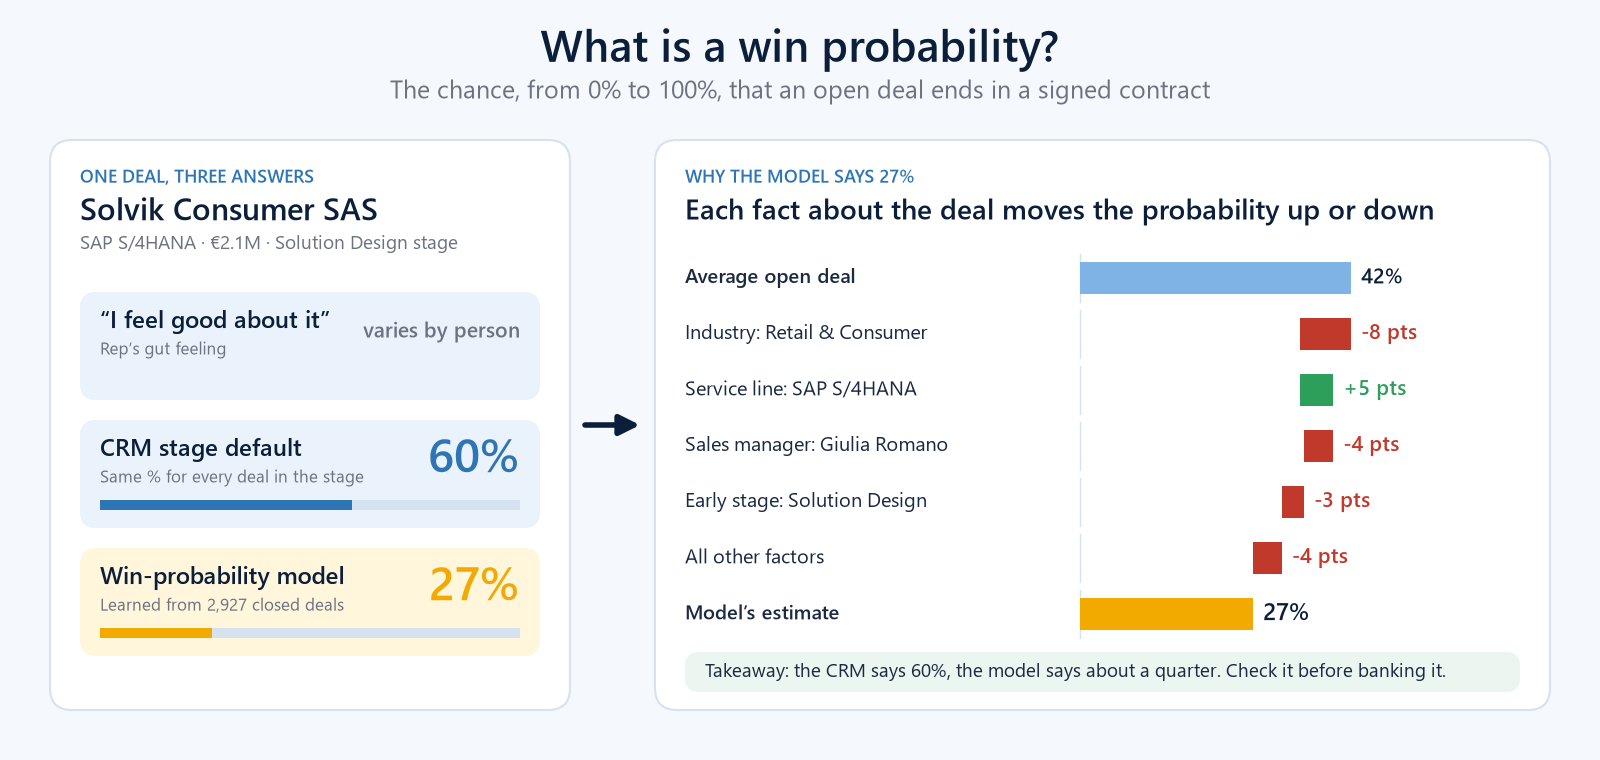
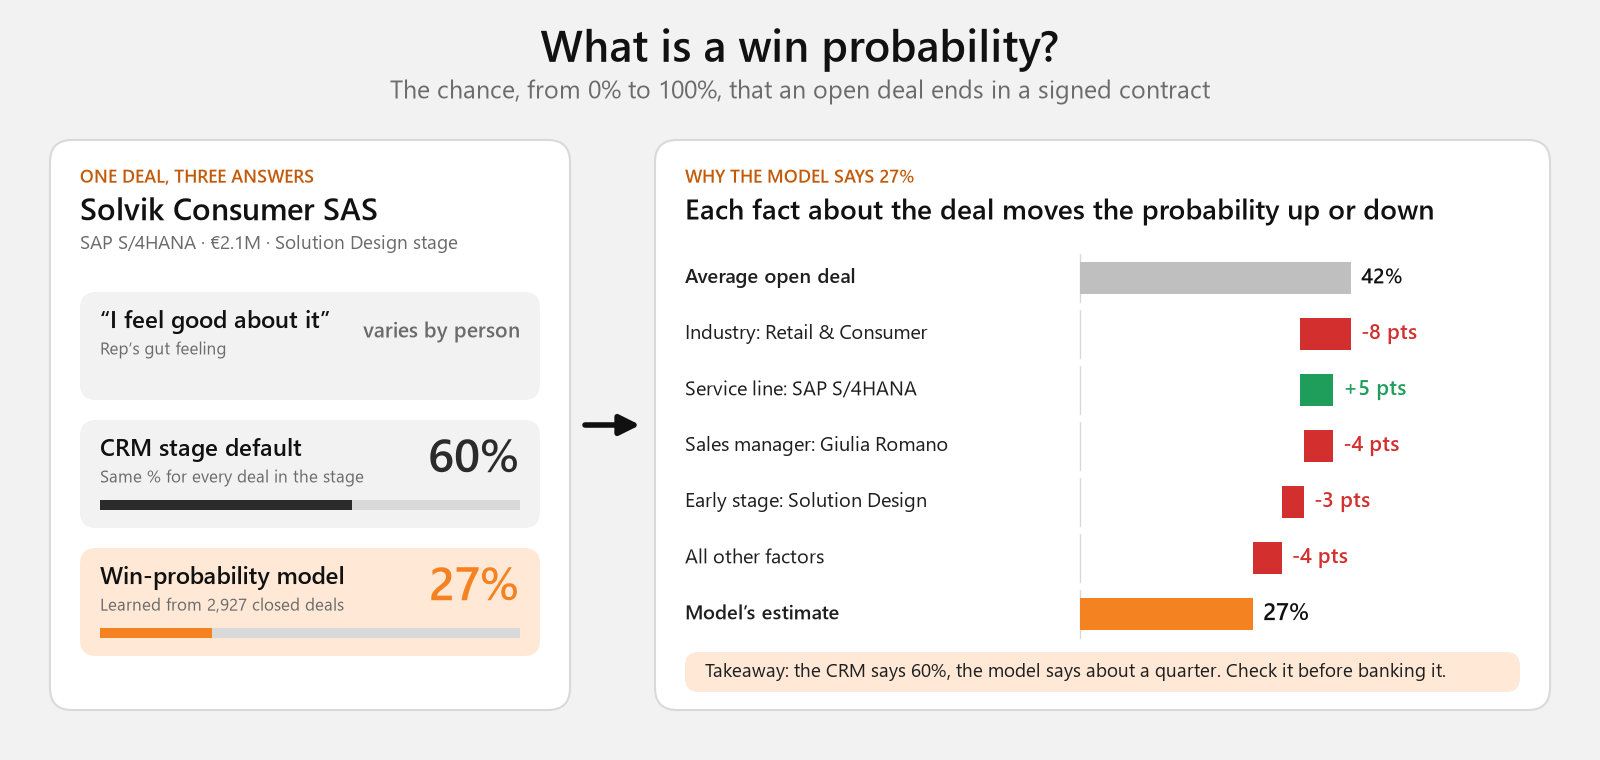
Recolour README images to the dashboard palette (orange, black, grey)

diff --git a/scripts/make_readme_images.py b/scripts/make_readme_images.py
@@ -4,6 +4,7 @@ Numbers come from the warehouse and ml/outputs/metrics.json, so the pictures can
 Run after the pipeline:  python scripts/make_readme_images.py   ->  images/readme/*.png
 """
 import json
+import re
 import textwrap
 from pathlib import Path
 
@@ -21,8 +22,10 @@ OUT.mkdir(parents=True, exist_ok=True)
 
 FONT = "Segoe UI"
 BOLD = "Segoe UI Semibold"
-NAVY, INK, BLUE, MID, SKY, PALE = "#0B1F3A", "#1B2A41", "#1F4E79", "#2E75B6", "#7FB2E5", "#EAF2FB"
-AMBER, GREEN, RED, GREY, WHITE = "#F2A900", "#2E9E5B", "#C0392B", "#6B7280", "#FFFFFF"
+# Same palette as the Power BI theme: black, orange, grey. Red and green are kept for bad / good only.
+NAVY, INK, BLUE, MID, SKY, PALE = "#111111", "#1F1F1F", "#2B2B2B", "#F58220", "#FFB066", "#F2F2F2"
+AMBER, GREEN, RED, GREY, WHITE = "#F58220", "#1E9E5A", "#D32F2F", "#6B6B6B", "#FFFFFF"
+DORANGE, LINE, TINT, TINT_LINE = "#C25A0A", "#D9D9D9", "#FFE9D6", "#F5B97A"   # small orange text, hairlines, light orange fills
 
 # ---- numbers ----------------------------------------------------------------------------------------------------------
 con = duckdb.connect(str(ROOT / "warehouse" / "nexora.duckdb"), read_only=True)
@@ -35,6 +38,8 @@ N = {
     "risk_eur": con.execute("select sum(amount_eur) from pipeline_deals where is_at_risk").fetchone()[0] / 1e6,
     "flag_n": con.execute("select count(*) from ml.model_scores where model_vs_governed_pts <= -25").fetchone()[0],
     "flag_eur": con.execute("select sum(amount_eur) from ml.model_scores where model_vs_governed_pts <= -25").fetchone()[0] / 1e6,
+    "measures": len(re.findall(r"^\tmeasure ", (ROOT / "powerbi" / "PowerBI_Workbook.SemanticModel" / "definition" / "tables"
+                                                 / "_Measures.tmdl").read_text(encoding="utf-8"), re.M)),
     "scored": m["scored"],
     "train_deals": m["train_deals"],
     "test_deals": m["test_deals"],
@@ -67,7 +72,7 @@ def box(ax, x, y, w, h, fc, ec="none", r=18, lw=0, alpha=1.0, z=1):
     return p
 
 
-def arrow(ax, x1, y1, x2, y2, color=MID, lw=3, ms=22, z=3):
+def arrow(ax, x1, y1, x2, y2, color="#595959", lw=3, ms=22, z=3):
     ax.add_patch(FancyArrowPatch((x1, y1), (x2, y2), arrowstyle="-|>", mutation_scale=ms, color=color, lw=lw, zorder=z,
                                  shrinkA=0, shrinkB=0))
 
@@ -85,7 +90,7 @@ def hero():
     W, H = 1600, 440
     fig, ax = canvas(W, H, NAVY)
     grad = np.linspace(0, 1, 256).reshape(1, -1)
-    ax.imshow(grad, extent=[0, W, H, 0], cmap=matplotlib.colors.LinearSegmentedColormap.from_list("g", [NAVY, "#133A63", "#1F4E79"]),
+    ax.imshow(grad, extent=[0, W, H, 0], cmap=matplotlib.colors.LinearSegmentedColormap.from_list("g", [NAVY, "#1B1B1B", "#2B2B2B"]),
               aspect="auto", zorder=0)
     ax.set_xlim(0, W); ax.set_ylim(H, 0)
     # faint grid
@@ -98,7 +103,7 @@ def hero():
     t(ax, 70, 168, "Sales Pipeline", 54, WHITE, "bold")
     t(ax, 70, 232, "Intelligence", 54, WHITE, "bold")
     ax.add_patch(Rectangle((70, 268), 90, 5, fc=AMBER, zorder=3))
-    t(ax, 70, 312, "Know which deals will close, and why.", 24, "#DCE9F7")
+    t(ax, 70, 312, "Know which deals will close, and why.", 24, "#E6E6E6")
     t(ax, 70, 352, "One trusted view of the pipeline. A win probability you can explain.", 16, SKY)
     # right: funnel of deals + probability ring
     stages = ["Discovery", "Solution\nDesign", "Proposal", "Negotiation", "Won"]
@@ -118,7 +123,7 @@ def hero():
     ax.add_patch(Wedge((cx, cy), R, 0, 360, width=20, fc=WHITE, alpha=0.10, zorder=2))
     ax.add_patch(Wedge((cx, cy), R, -90, -90 + 360 * 0.84, width=20, fc=AMBER, zorder=3))
     t(ax, cx, cy - 8, "84%", 46, WHITE, "bold", ha="center")
-    t(ax, cx, cy + 38, "chance to win", 14, "#DCE9F7", ha="center")
+    t(ax, cx, cy + 38, "chance to win", 14, "#E6E6E6", ha="center")
     box(ax, cx - 150, 350, 300, 44, WHITE, r=22, alpha=0.12, z=2)
     t(ax, cx, 372, "…because late stage, a strong service line", 12.5, WHITE, ha="center")
     save(fig, "hero_banner.png")
@@ -129,14 +134,14 @@ def hero():
 # ======================================================================================================================
 def workflow():
     W, H = 1600, 700
-    fig, ax = canvas(W, H, "#F5F8FC")
+    fig, ax = canvas(W, H, "#F2F2F2")
     t(ax, W / 2, 52, "From messy CRM data to decisions leaders can trust", 30, NAVY, "bold", ha="center")
     t(ax, W / 2, 92, "What was built, in five steps", 16, GREY, ha="center")
     steps = [
-        ("1", "DATA SOURCES", "⚑", "Capture", ["24 monthly CRM extracts", "2 system versions after a migration", "8 currencies"], GREY),
+        ("1", "DATA SOURCES", "⚑", "Capture", ["24 monthly CRM extracts", "2 system versions after a migration", "8 currencies"], "#6B6B6B"),
         ("2", "TRUST LAYER", "✔", "Cleanse & reconcile", [f"{N['raw_rows']:,} raw rows become {N['deals']:,} real deals", "Duplicates and test data removed", f"{N['checks']} of {N['checks']} checks pass"], BLUE),
         ("3", "BUSINESS RULES", "⚖", "Govern", ["One definition per metric", "Stage odds, FX and “stuck” rules", "Written down, versioned, tested"], BLUE),
-        ("4", "PREDICTIVE SCIENCE", "⚙", "Learn from history", [f"Learns from {N['train_deals']:,} closed deals", f"Proven on {N['test_deals']} unseen deals", "A win probability for every open deal"], MID),
+        ("4", "PREDICTIVE SCIENCE", "⚙", "Learn from history", [f"Learns from {N['train_deals']:,} closed deals", f"Proven on {N['test_deals']} unseen deals", "A win probability for every open deal"], DORANGE),
         ("5", "DECISIONS", "★", "Act", [f"€{N['flag_eur']:.0f}M of pipeline flagged for review", "“Why this deal?” in plain words", "Early warning on stuck deals"], AMBER),
     ]
     n = len(steps)
@@ -144,18 +149,18 @@ def workflow():
     bw = (W - 2 * margin - gap * (n - 1)) / n
     for i, (num, head, icon, verb, lines, col) in enumerate(steps):
         x = margin + i * (bw + gap)
-        box(ax, x, 150, bw, 440, WHITE, ec="#D6E2F0", lw=1.5, r=22, z=1)
+        box(ax, x, 150, bw, 440, WHITE, ec=LINE, lw=1.5, r=22, z=1)
         box(ax, x, 150, bw, 112, col, r=22, z=2)
         ax.add_patch(Rectangle((x, 230), bw, 32, fc=col, zorder=2))          # square off the header's lower corners
         ax.add_patch(Circle((x + 44, 206), 26, fc=WHITE, alpha=0.95, zorder=3))
-        t(ax, x + 44, 205, icon, 26, col if col != AMBER else "#B97C00", ha="center", family="DejaVu Sans", zorder=4)
+        t(ax, x + 44, 205, icon, 26, col if col != AMBER else DORANGE, ha="center", family="DejaVu Sans", zorder=4)
         t(ax, x + 86, 184, f"STEP {num}", 11, WHITE, "bold")
         t(ax, x + 84, 214, head, 12.5, WHITE, "bold")
         t(ax, x + bw / 2, 300, verb, 21, NAVY, "bold", ha="center")
         ax.add_patch(Rectangle((x + bw / 2 - 28, 326), 56, 4, fc=col, zorder=3))
         for k, line in enumerate(lines):
             yy = 372 + k * 70
-            t(ax, x + 24, yy, "•", 20, col if col != AMBER else AMBER, "bold")
+            t(ax, x + 24, yy, "•", 20, col, "bold")
             wrapped = textwrap.fill(line, 24)
             t(ax, x + 48, yy + (10 if wrapped.count(chr(10)) else 0), wrapped, 14, INK, va="center", linespacing=1.35)
         if i < n - 1:
@@ -175,34 +180,34 @@ def workflow():
 # ======================================================================================================================
 def explainer():
     W, H = 1600, 760
-    fig, ax = canvas(W, H, "#F5F8FC")
+    fig, ax = canvas(W, H, "#F2F2F2")
     t(ax, W / 2, 50, "What is a win probability?", 32, NAVY, "bold", ha="center")
     t(ax, W / 2, 92, "The chance, from 0% to 100%, that an open deal ends in a signed contract", 18, GREY, ha="center")
 
     # left panel: who says what
-    box(ax, 50, 140, 520, 570, WHITE, ec="#D6E2F0", lw=1.5, r=22)
-    t(ax, 80, 178, "ONE DEAL, THREE ANSWERS", 13, MID, "bold")
+    box(ax, 50, 140, 520, 570, WHITE, ec=LINE, lw=1.5, r=22)
+    t(ax, 80, 178, "ONE DEAL, THREE ANSWERS", 13, DORANGE, "bold")
     name = EX.deal_label.split(" | ")[1]
     t(ax, 80, 212, name, 22, NAVY, "bold")
     t(ax, 80, 244, f"SAP S/4HANA · €{EX.amount_eur / 1e6:.1f}M · Solution Design stage", 14, GREY)
     rows = [("“I feel good about it”", "Rep’s gut feeling", "varies by person", GREY, None),
-            ("CRM stage default", "Same % for every deal in the stage", f"{EX.g:.0%}", MID, EX.g),
+            ("CRM stage default", "Same % for every deal in the stage", f"{EX.g:.0%}", BLUE, EX.g),
             ("Win-probability model", "Learned from 2,927 closed deals", f"{EX.p:.0%}", AMBER, EX.p)]
     for i, (a, b, c, col, v) in enumerate(rows):
         y = 292 + i * 128
-        box(ax, 80, y, 460, 108, PALE if i < 2 else "#FFF6DC", r=16)
+        box(ax, 80, y, 460, 108, PALE if i < 2 else TINT, r=16)
         t(ax, 100, y + 30, a, 17, NAVY, "bold")
         t(ax, 100, y + 58, b, 12.5, GREY)
         t(ax, 520, y + 40, c, 34 if v is not None else 15, col if col != GREY else GREY, "bold", ha="right")
         if v is not None:
-            ax.add_patch(Rectangle((100, y + 80), 420, 10, fc="#D6E2F0", zorder=3))
+            ax.add_patch(Rectangle((100, y + 80), 420, 10, fc=LINE, zorder=3))
             ax.add_patch(Rectangle((100, y + 80), 420 * v, 10, fc=col, zorder=4))
     # arrow to right panel
     arrow(ax, 585, 425, 640, 425, color=NAVY, lw=4, ms=30)
 
     # right panel: reasons waterfall
-    box(ax, 655, 140, 895, 570, WHITE, ec="#D6E2F0", lw=1.5, r=22)
-    t(ax, 685, 178, "WHY THE MODEL SAYS " + f"{EX.p:.0%}", 13, MID, "bold")
+    box(ax, 655, 140, 895, 570, WHITE, ec=LINE, lw=1.5, r=22)
+    t(ax, 685, 178, "WHY THE MODEL SAYS " + f"{EX.p:.0%}", 13, DORANGE, "bold")
     t(ax, 685, 212, "Each fact about the deal moves the probability up or down", 20, NAVY, "bold")
     top = EXPL.head(4)
     other = EX.p * 100 - BASE * 100 - top.impact_pts.sum()
@@ -221,7 +226,7 @@ def explainer():
         y = 258 + i * 56
         t(ax, 685, y + 20, lab, 14.5, INK, "bold" if kind != "delta" else "normal")
         if kind == "start":
-            ax.add_patch(Rectangle((x0, y + 4), v * scale, 32, fc=SKY, zorder=3)); cum = v
+            ax.add_patch(Rectangle((x0, y + 4), v * scale, 32, fc="#BFBFBF", zorder=3)); cum = v
             t(ax, x0 + v * scale + 10, y + 20, f"{v:.0f}%", 15, NAVY, "bold")
         elif kind == "end":
             ax.add_patch(Rectangle((x0, y + 4), v * scale, 32, fc=AMBER, zorder=3))
@@ -231,8 +236,8 @@ def explainer():
             ax.add_patch(Rectangle((x0 + min(a, b) * scale, y + 4), abs(v) * scale, 32, fc=GREEN if v > 0 else RED, zorder=3))
             t(ax, x0 + max(a, b) * scale + 10, y + 20, f"{v:+.0f} pts", 15, GREEN if v > 0 else RED, "bold")
             cum = b
-        ax.plot([x0, x0], [y - 4, y + 44], color="#D6E2F0", lw=1, zorder=2)
-    box(ax, 685, 652, 835, 40, "#EAF6EF", r=14)
+        ax.plot([x0, x0], [y - 4, y + 44], color=LINE, lw=1, zorder=2)
+    box(ax, 685, 652, 835, 40, TINT, r=14)
     t(ax, 705, 672, f"Takeaway: the CRM says {EX.g:.0%}, the model says about a quarter. Check it before banking it.", 13.5, INK)
     save(fig, "win_probability_explained.png")
 
@@ -245,7 +250,7 @@ def architecture():
     fig, ax = canvas(W, H, WHITE)
     t(ax, W / 2, 40, "Technical architecture", 28, NAVY, "bold", ha="center")
 
-    def node(x, y, w, h, title, sub, fc=PALE, ec="#BCD3EA", tc=NAVY):
+    def node(x, y, w, h, title, sub, fc=PALE, ec="#BFBFBF", tc=NAVY):
         box(ax, x, y, w, h, fc, ec=ec, lw=1.6, r=14)
         t(ax, x + w / 2, y + 26, title, 14.5, tc, "bold", ha="center")
         for k, s in enumerate(sub):
@@ -254,8 +259,8 @@ def architecture():
     # lane labels
     lanes = [("SOURCES", 40), ("STAGING (dbt views)", 330), ("INTERMEDIATE (dbt views)", 640), ("MARTS (dbt tables · DuckDB)", 950), ("CONSUME", 1280)]
     for lab, x in lanes:
-        t(ax, x, 84, lab, 12, MID, "bold")
-        ax.plot([x, x + 270], [98, 98], color=SKY, lw=2)
+        t(ax, x, 84, lab, 12, DORANGE, "bold")
+        ax.plot([x, x + 270], [98, 98], color=MID, lw=2)
     node(40, 116, 250, 78, "24 monthly CRM CSVs", ["v1 + v2 schemas · 5,012 rows"])
     node(40, 206, 250, 78, "Stage-change audit log", ["16,289 field changes"])
     node(40, 296, 250, 78, "Accounts Excel export", ["junk header/footer · 765 rows"])
@@ -266,12 +271,12 @@ def architecture():
     node(640, 116, 270, 100, "int_opportunities_clean", ["latest version · owner match", "currency fill · account link"])
     node(640, 228, 270, 70, "int_accounts_master", ["765 → 720 master accounts"])
     node(640, 310, 270, 70, "int_stage_stints", ["12,017 stints via lead()"])
-    node(950, 116, 270, 100, "pipeline_deals", ["rules · FX · risk flags", "4,800 rows"], fc="#DCEBFA")
-    node(950, 228, 270, 70, "stints · team · accounts", ["dept_quarter_summary"], fc="#DCEBFA")
-    node(950, 310, 270, 70, "rejected_records", ["212 rows, each with a reason"], fc="#DCEBFA")
-    node(1280, 116, 270, 100, "Power BI (PBIP)", ["7 pages · 63 DAX measures"], fc="#FFF6DC", ec="#EBD28B")
-    node(1280, 228, 270, 70, "CSV exports", ["data/output/*"], fc="#FFF6DC", ec="#EBD28B")
-    node(1280, 310, 270, 70, "AI experiment", ["grounded vs ungrounded"], fc="#FFF6DC", ec="#EBD28B")
+    node(950, 116, 270, 100, "pipeline_deals", ["rules · FX · risk flags", "4,800 rows"], fc=TINT, ec=TINT_LINE)
+    node(950, 228, 270, 70, "stints · team · accounts", ["dept_quarter_summary"], fc=TINT, ec=TINT_LINE)
+    node(950, 310, 270, 70, "rejected_records", ["212 rows, each with a reason"], fc=TINT, ec=TINT_LINE)
+    node(1280, 116, 270, 100, "Power BI (PBIP)", [f"7 pages · {N['measures']} DAX measures"], fc=WHITE, ec=MID)
+    node(1280, 228, 270, 70, "CSV exports", ["data/output/*"], fc=WHITE, ec=MID)
+    node(1280, 310, 270, 70, "AI experiment", ["grounded vs ungrounded"], fc=WHITE, ec=MID)
     for y in (166, 263, 345):
         arrow(ax, 292, 160 if y == 166 else y, 328, 160 if y == 166 else y, lw=2, ms=16)
     arrow(ax, 292, 420, 328, 345, lw=2, ms=16)
@@ -282,14 +287,14 @@ def architecture():
         arrow(ax, 1222, 166 if y == 166 else y, 1278, 166 if y == 166 else y, lw=2, ms=16)
 
     # ML lane
-    box(ax, 40, 500, 1510, 120, "#F5F8FC", ec="#D6E2F0", lw=1.5, r=16)
-    t(ax, 60, 522, "MACHINE LEARNING  ·  Python / scikit-learn", 12, MID, "bold")
+    box(ax, 40, 500, 1510, 120, "#F2F2F2", ec=LINE, lw=1.5, r=16)
+    t(ax, 60, 522, "MACHINE LEARNING  ·  Python / scikit-learn", 12, DORANGE, "bold")
     ml = [("Photos of closed deals", "day 0/14/30/45/60/90/120 per stage"), ("Time-based backtest", "train < 1 Mar 2026 · test 550 deals"),
           ("Logistic regression vs forest", "Brier · AUC · calibration"), ("Score + explain", f"{N['scored']} deals · reason codes"),
           ("ml.* tables", "scores · explanations · calibration")]
     for i, (a, b) in enumerate(ml):
         x = 60 + i * 296
-        box(ax, x, 538, 270, 66, WHITE, ec="#BCD3EA", lw=1.4, r=12)
+        box(ax, x, 538, 270, 66, WHITE, ec="#BFBFBF", lw=1.4, r=12)
         t(ax, x + 135, 561, a, 13, NAVY, "bold", ha="center")
         t(ax, x + 135, 584, b, 11, GREY, ha="center")
         if i < 4:
@@ -298,8 +303,8 @@ def architecture():
     arrow(ax, 1415, 500, 1415, 384, color=MID, lw=2.5, ms=18)
 
     # governance lane
-    box(ax, 40, 650, 1510, 170, "#FFFBF0", ec="#F0DCA0", lw=1.5, r=16)
-    t(ax, 60, 672, "QUALITY & GOVERNANCE  ·  runs on every build", 12, "#B97C00", "bold")
+    box(ax, 40, 650, 1510, 170, "#FFF3E6", ec=TINT_LINE, lw=1.5, r=16)
+    t(ax, 60, 672, "QUALITY & GOVERNANCE  ·  runs on every build", 12, DORANGE, "bold")
     gov = [("Reconciliation", f"{N['checks']} checks vs CRM totals", "a failure stops the build"),
            ("dbt tests", "40 tests · keys, values,", "relationships, no overlaps"),
            ("Rules as data", "seeds: stage odds, FX, targets", "aliases, field mapping"),
@@ -308,7 +313,7 @@ def architecture():
            ("CI + reproducible", "GitHub Actions · seeded data", "one command rebuilds all")]
     for i, (a, b, c) in enumerate(gov):
         x = 60 + i * 247
-        box(ax, x, 694, 232, 106, WHITE, ec="#F0DCA0", lw=1.4, r=12)
+        box(ax, x, 694, 232, 106, WHITE, ec=TINT_LINE, lw=1.4, r=12)
         t(ax, x + 116, 716, a, 13, NAVY, "bold", ha="center")
         t(ax, x + 116, 745, b, 11, GREY, ha="center")
         t(ax, x + 116, 765, c, 11, GREY, ha="center")
